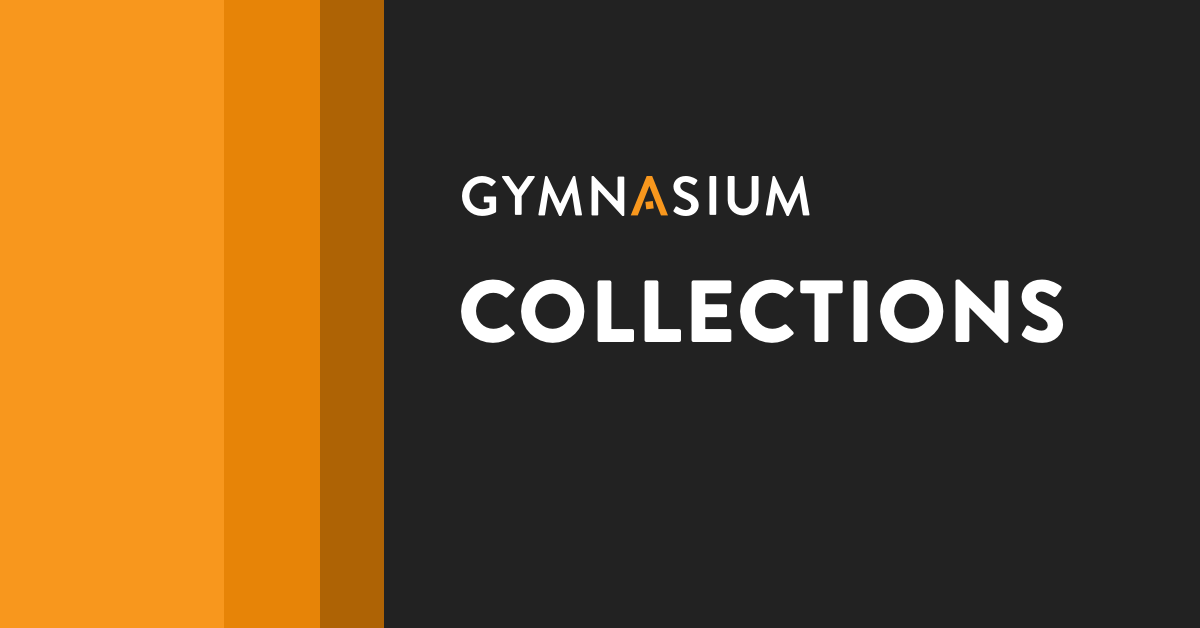
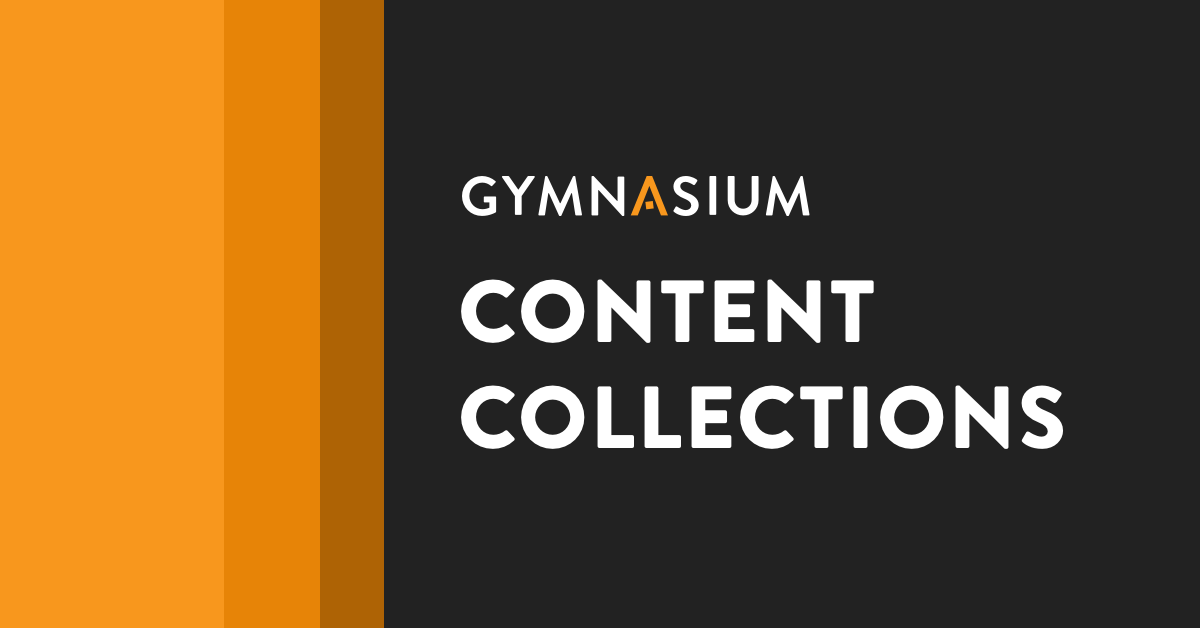
Update Collections home page
- Update page and OG titles
- Update OG image
- Update page heading

Changed region(s): [[0.37, 0.6051, 0.8942, 0.7261], [0.4933, 0.4236, 0.8942, 0.5446]]

diff --git a/hub-pages/collections/collections.html b/hub-pages/collections/collections.html
@@ -7,7 +7,7 @@ permalink: /collections/
 <main id="main" role="main">
   <header class="collections--about" id="about">
     <div class="container">
-      <h1>Collections</h1>
+      <h1>Content Collections</h1>
       <p>Explore a specific topic and learn practical skills with free courses, tutorials, and resources.</p>
     </div>
   </header>

diff --git a/hub-pages/collections/meta.md b/hub-pages/collections/meta.md
@@ -1,8 +1,8 @@
 ---
 layout: meta
 permalink: /collections/meta/
-page_title: "Collections | Gymnasium"
-og_title: "Collections"
+page_title: "Content Collections | Gymnasium"
+og_title: "Content Collections"
 og_description: "Explore a specific topic and learn practical skills with free courses, tutorials, and resources."
 og_art: /img/hub-pages/og/collections-og.png
 og_url: https://thegymnasium.com/collections
